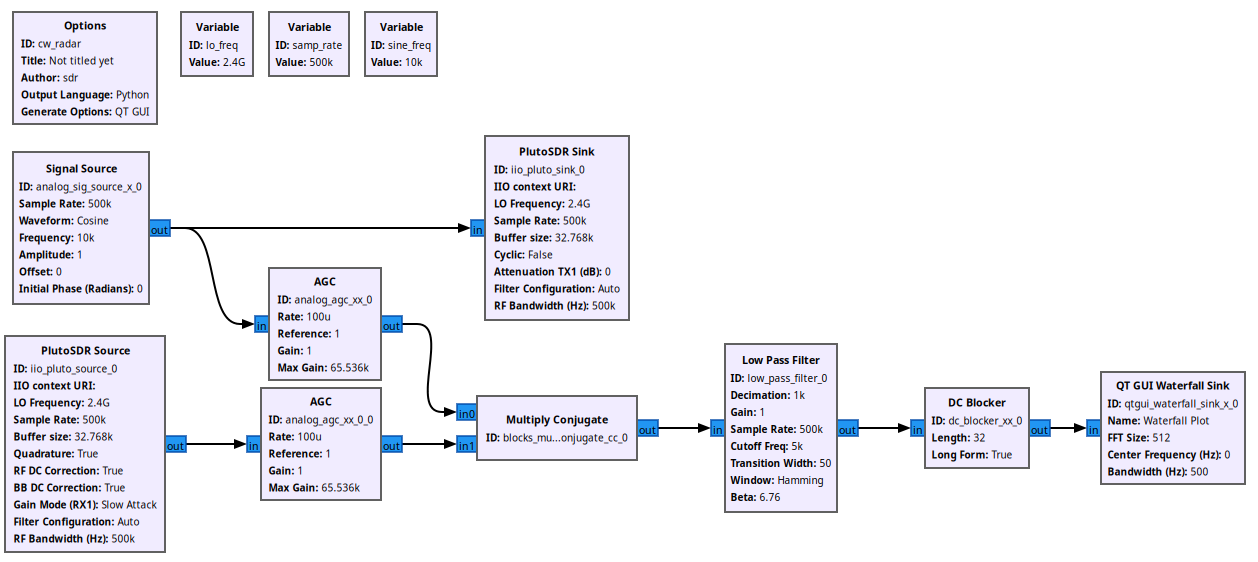
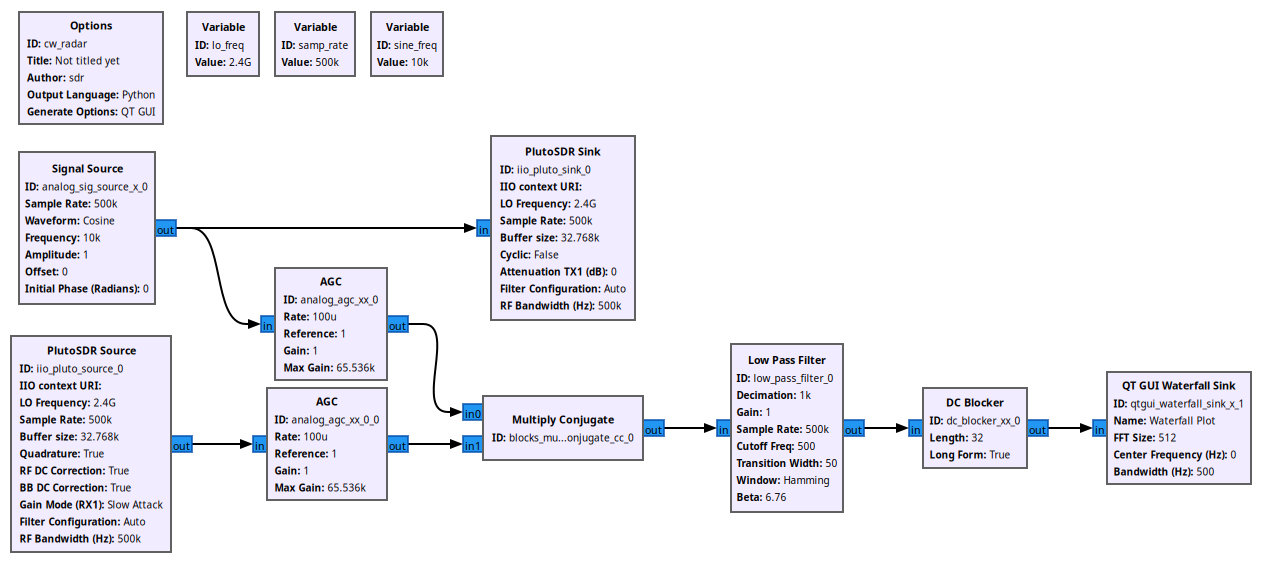
Explaining flowchart

Changed region(s): [[0.0, 0.0302, 0.9921, 0.9982], [0.341, 0.605, 0.372, 0.6352]]

diff --git a/8/lab_report.tex b/8/lab_report.tex
@@ -80,14 +80,7 @@ In this section, we provide the procedures for each of our experiments. We speci
 
 In this section, we provide the results for each of our experiments. We specifically create GNU radio flowchart which implements a CW radio in our PlutoSDR. Next, we use our design to measure the angular velocity of a box fan. Then, we discuss the short-coming of our design: DC return, resilience to interference, and no range measurement. Finally, we discuss how we can improve our design to handle these short-comings.
 
-
-In this section, we create a GNU radio flowchart to implement a CW radar. Our flowchart is shown in Figure \ref{fig::gnu_radio_block_diagram}. In this flowchart, we transmit a 10 kHz sinusoid at a 2.4 GHz carrier frequency. Then, we receive the sinusoid with a 500 kHz sampling rate and RF bandwidth. Note that this is much greater than twice the highest frequency (10 kHz plus a doppler shift), so we could further reduce our sampling rate if desired. However, if we did so, we should also reduce the RF bandwidth to reduce the amount of noise that aliases back into our spectrum. Next, we perform AGC on the received signal and signal source to maintain signal power. However, both these blocks are optional and can be removed because our transmitted signal has a fixed signal power and because we are performing AGC in the PlutoSDR. Next, we multiply the received signal by the conjugate of the transmitted signal. This is equivalent to mixing our return down to DC. After we mix down, we should be left with a tone at DC (from clutter and leakage) and a tone at the doppler shift. The doppler shift of our returns will be small with respect to our bandwidth. As such we select a sampling rate of 500 Hz for our water plot, which allows us to unambiguously resolve doppler shifts up to $\pm 250\ \text{Hz}$, which corresponds to radial velocities up to $\pm 15.625 m/s$. We use a low-pass filter with decimation to get down to this reduced sample rate. We also use a DC blocker to remove the clutter and leakage returns, which is much higher power than our reflections.
-
-%\begin{equation*}
-%	f_d = \frac{2v}{\lambda}
-%\end{equation*}
-
-% \noindent We specifically choose  shift of 
+Our GNU radio flowchart is shown in Figure \ref{fig::gnu_radio_block_diagram}. 
 
 \begin{figure}[H]
     	\centering
@@ -95,6 +88,14 @@ In this section, we create a GNU radio flowchart to implement a CW radar. Our fl
     	\caption{GNU Radio Flowchart which Implements a CW Radar}
     	\label{fig::gnu_radio_block_diagram}
 \end{figure}
+
+\noindent In this flowchart, we transmit a 10 kHz sinusoid on a 2.4 GHz carrier frequency. Then, we receive the sinusoid with a 500 kHz sampling rate and RF bandwidth. Note that our sampling greater is much greater than twice the highest frequency in our received signal (10 kHz plus a doppler shift), so we could further reduce our sampling rate if desired. However, if we do so, we should also reduce the RF bandwidth to reduce the amount of noise that aliases back into our spectrum. Next, we perform AGC on the received signal and signal source to maintain signal power. However, both these blocks are optional and can be removed because our transmitted signal has a fixed signal power and because we are performing AGC in the PlutoSDR. Next, we multiply the received signal by the conjugate of the transmitted signal. This is equivalent to mixing our return down to DC. After we mix down, we should be left with a tone at DC (from clutter and leakage) and a tone at the doppler shift. The doppler shift of our returns will be small with respect to our bandwidth. As such we select a sampling rate of 500 Hz for our waterfall plot, which allows us to unambiguously resolve doppler shifts up to $\pm 250\ \text{Hz}$ and radial velocities up to $\pm 15.625 \text{m}/\text{s}$. We use a low-pass filter with decimation to get down to this reduced sample rate. We also use a DC blocker to remove the clutter and leakage returns, which are much stronger than our target return.
+
+%\begin{equation*}
+%	f_d = \frac{2v}{\lambda}
+%\end{equation*}
+
+% \noindent We specifically choose  shift of 
 
 If we point our PlutoSDR at a running box fan, we receive the waterfall plot generated in Figure \ref{fig::dopp_spectrum}. Note that our flowchart shows the doppler shift for three different fan speeds. 
 
